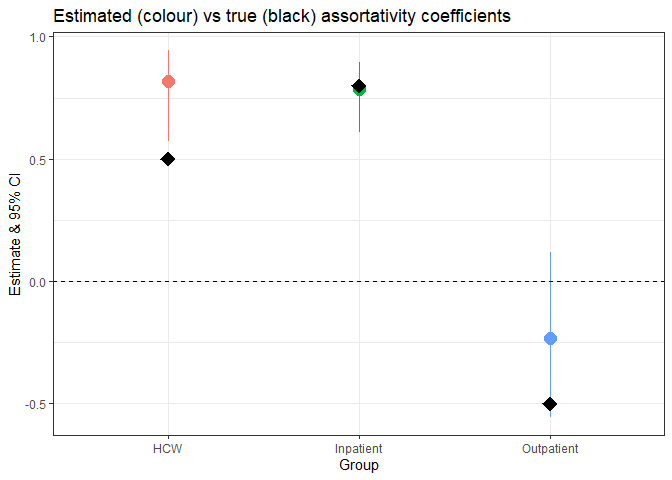
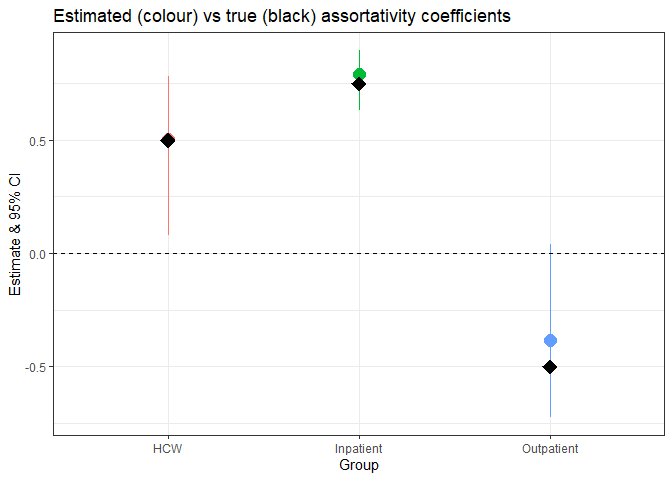
edit readme

diff --git a/README.md b/README.md
@@ -21,8 +21,18 @@ The package is still under development and is not yet available on CRAN.
 # Installation
 
 ``` r
-devtools::install_github("CyGei/o2groups")
+#devtools::install_github("CyGei/o2groups")
 library(o2groups)
+```
+
+    ## 
+    ## Attaching package: 'o2groups'
+
+    ## The following object is masked from 'package:base':
+    ## 
+    ##     scale
+
+``` r
 library(tidyverse)
 ```
 
@@ -82,7 +92,7 @@ duration = 100 # the duration of the outbreak
 n_groups = 3 # the number of groups
 size = c(220, 200, 300) # the size of each group
 name = c("HCW", "Inpatient", "Outpatient")
-delta = o2groups::reverse_scale(c(0.5, 0.8, -0.5)) # the assortativity coefficient for each group
+delta = o2groups::reverse_scale(c(0.5, 0.75, -0.5)) # the assortativity coefficient for each group
 intro_n = c(1, 3, 1) # the number of introductions for each group
 r0 = c(1.7, 1.5, 3) # the basic reproduction number for each group
 generation_time = c(0, 0.1, 0.2, 0.4, 0.2, 0.1, 0) # the generation time distribution
@@ -150,7 +160,7 @@ function
 unscaled_est <- o2groups::early_delta(
   sim$data,
   min_t = 0,
-  max_t = 14, #~ epidemic peak date
+  max_t = 13, #~ epidemic peak date
   name = name,
   size = size
 )
@@ -158,14 +168,14 @@ unscaled_est <- o2groups::early_delta(
 unscaled_est # the estimated assortativity coefficients (gamma) and 95% CI for each group
 ```
 
-    ##                   est  lower_ci  upper_ci successes trials
-    ## HCW        10.0000000 3.6951009 33.802305        22     27
-    ## Inpatient   8.2727273 4.1067540 18.057645        35     46
-    ## Outpatient  0.6222222 0.2871452  1.270183        12     39
+    ##                  est  lower_ci  upper_ci successes trials
+    ## HCW        3.0303030 1.1718756  8.143221        12     21
+    ## Inpatient  8.6666667 4.4574930 18.147532        40     52
+    ## Outpatient 0.4454545 0.1607295  1.079633         7     29
 
 We can plot the estimated assortativity coefficients and their 95% CI
 against the true values. We analysed transmission chains up to the
-epidemic peak, which is around day 14.
+epidemic peak, which is around day 13.
 
 ``` r
 o2groups::scale(unscaled_est[,1:3]) %>% 
@@ -265,8 +275,6 @@ delta_est_over_time %>%
 
 ![](README_files/figure-gfm/unnamed-chunk-10-1.png)<!-- -->
 
-Our estimates are best around day 20, which is slightly after the
-epidemic peak. However, past that date, the depletion of susceptibles
-leads to a decrease in the observed proportion of within-group
-transmissions, which can lead to biased estimates of the true
-assortativity coefficients (dashed lines).
+The plot above highlights how the changes in the observed proportion of
+within-group transmissions ( due to saturation) can lead to biased
+estimates of the true assortativity coefficients (dashed lines).
